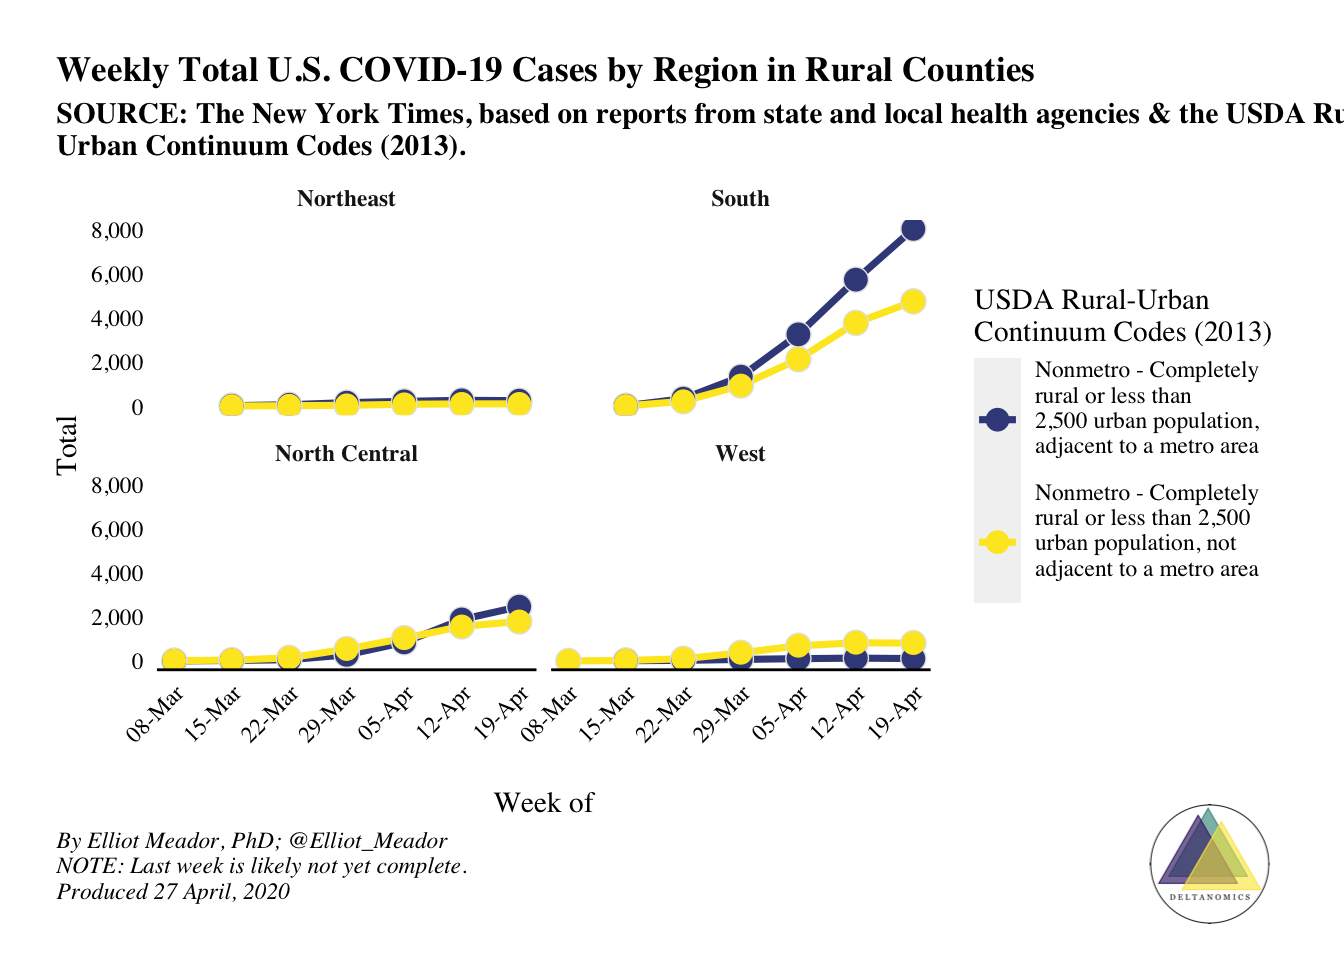
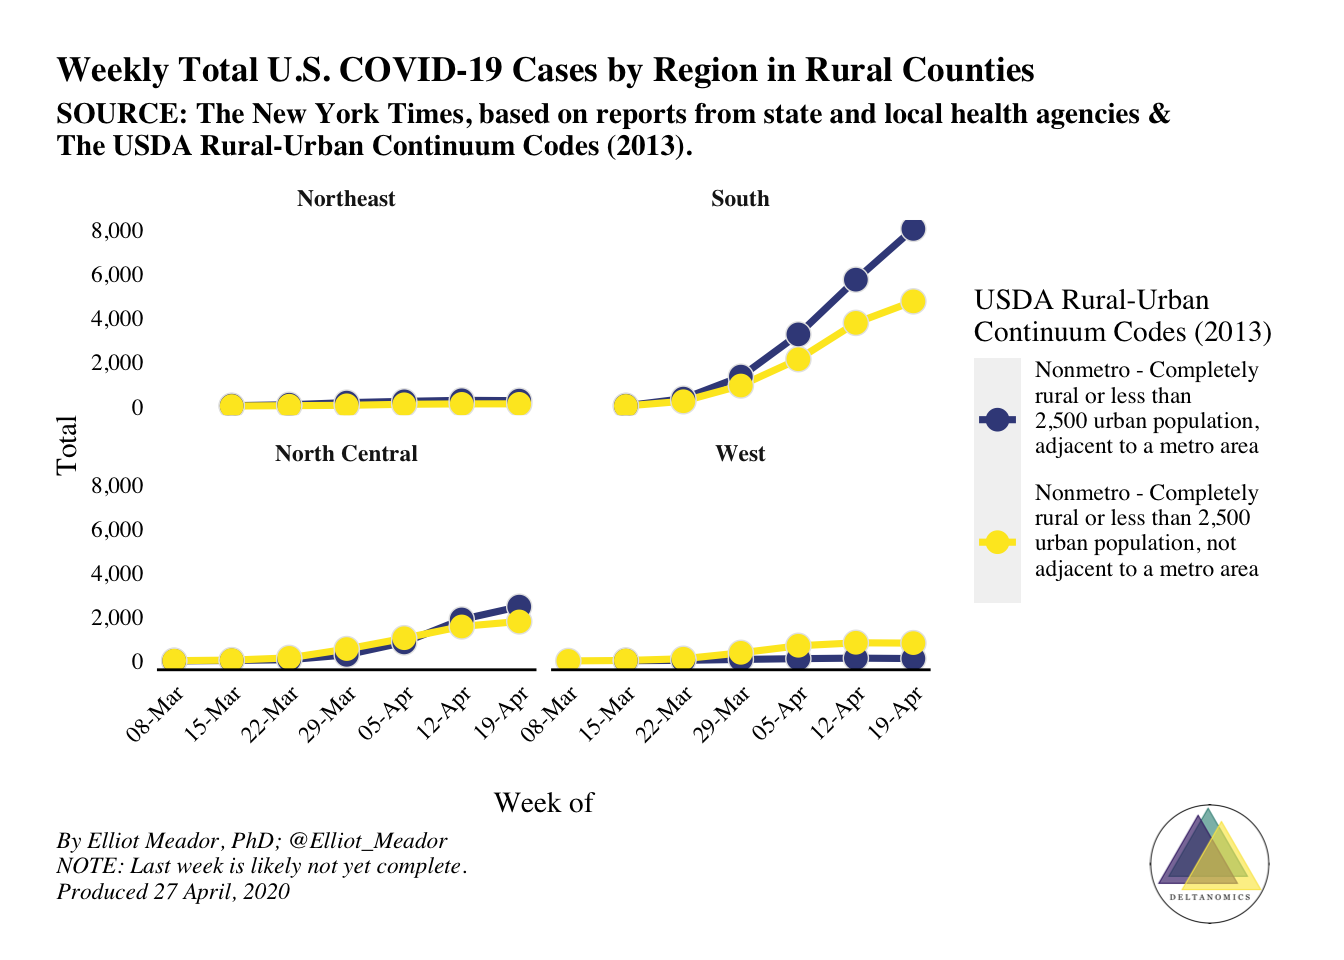
Updated plot size again.

Changed region(s): [[0.0312, 0.125, 0.5, 0.1875], [0.875, 0.0938, 1.0, 0.125]]

diff --git a/content/post/2020-04-26-covid-19-and-rural-areas-in-the-u-s.html b/content/post/2020-04-26-covid-19-and-rural-areas-in-the-u-s.html
@@ -191,7 +191,7 @@ today_date &lt;-
   weekly_regional_gg +  
   labs(
     title = &#39;Weekly Total U.S. COVID-19 Cases by Region in Rural Counties&#39;,
-    subtitle = str_wrap(&#39;SOURCE: The New York Times, based on reports from state and local health agencies &amp; the USDA Rural-Urban Continuum Codes (2013).&#39;, 100),
+    subtitle = &#39;SOURCE: The New York Times, based on reports from state and local health agencies &amp;\nThe USDA Rural-Urban Continuum Codes (2013).&#39;,
     x = &#39;\nWeek of&#39;,
     y = &#39;Total&#39;,
     color = str_wrap(&#39;USDA Rural-Urban Continuum Codes (2013)&#39;, 25), 

diff --git a/public/post/covid-19-rural-deltanomics/index.html b/public/post/covid-19-rural-deltanomics/index.html
@@ -872,7 +872,7 @@ today_date &lt;-
   weekly_regional_gg +  
   labs(
     title = &#39;Weekly Total U.S. COVID-19 Cases by Region in Rural Counties&#39;,
-    subtitle = str_wrap(&#39;SOURCE: The New York Times, based on reports from state and local health agencies &amp; the USDA Rural-Urban Continuum Codes (2013).&#39;, 100),
+    subtitle = &#39;SOURCE: The New York Times, based on reports from state and local health agencies &amp;\nThe USDA Rural-Urban Continuum Codes (2013).&#39;,
     x = &#39;\nWeek of&#39;,
     y = &#39;Total&#39;,
     color = str_wrap(&#39;USDA Rural-Urban Continuum Codes (2013)&#39;, 25), 
